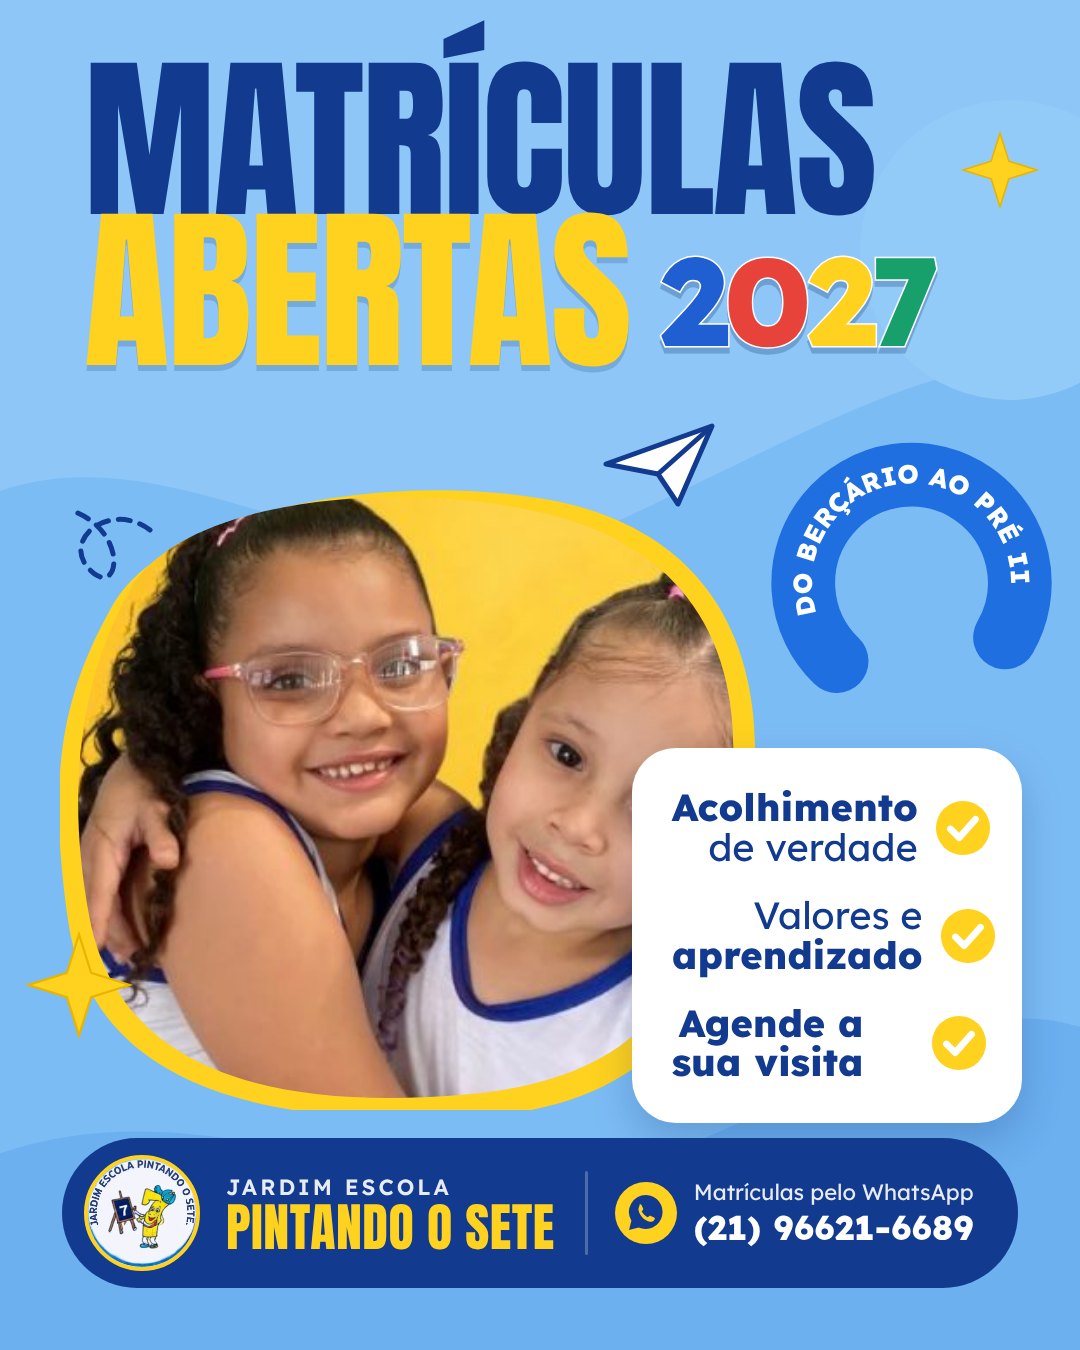
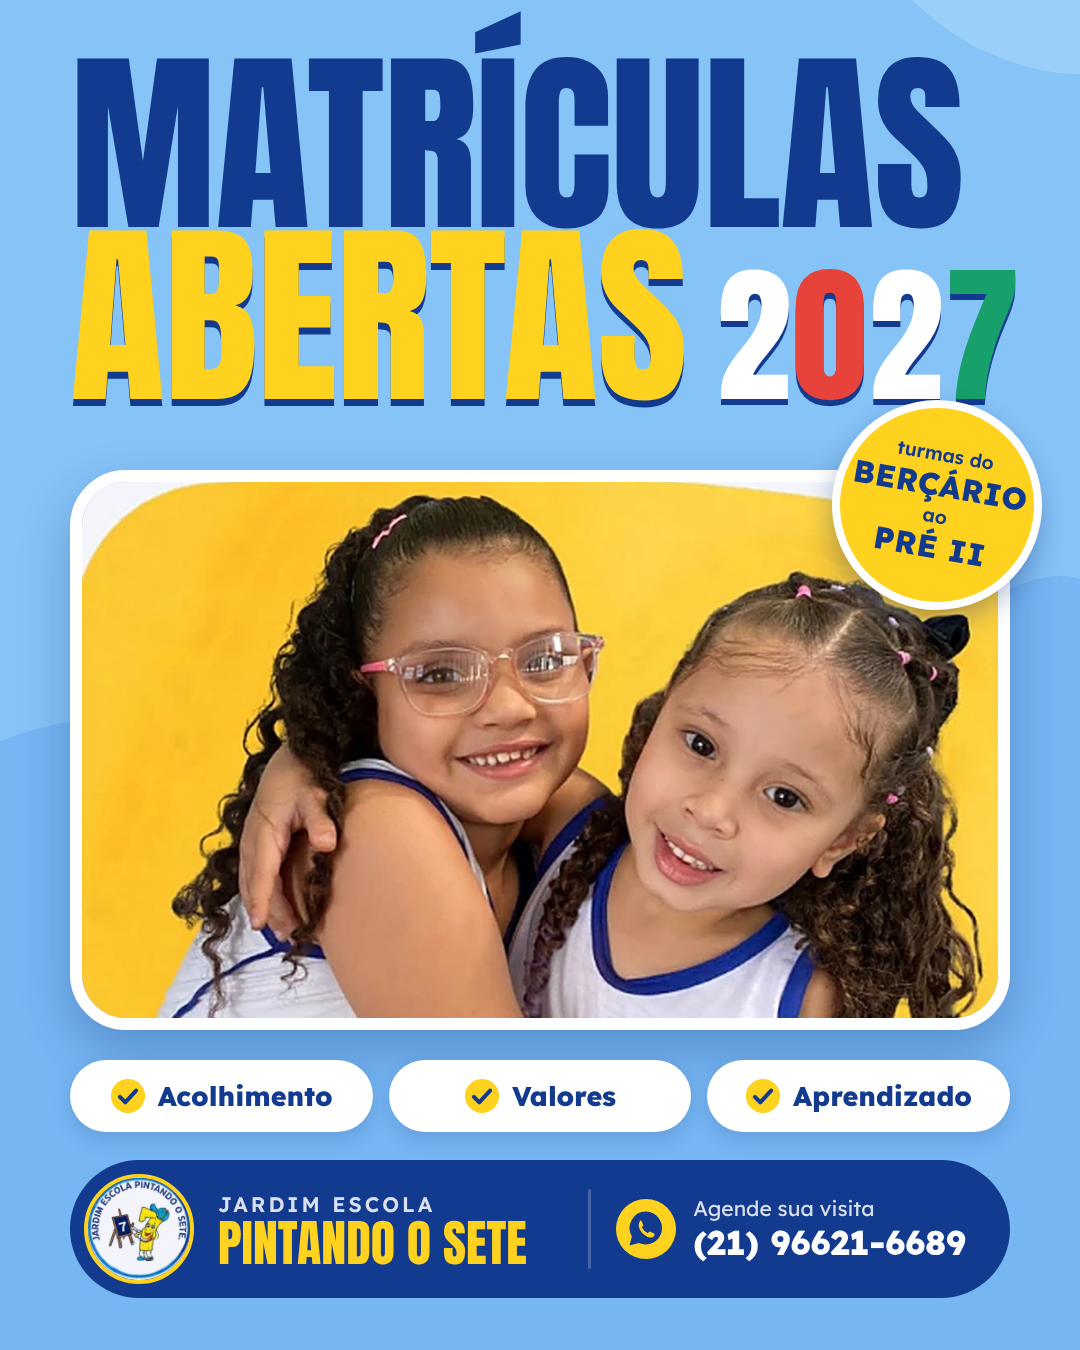
Redesign Pintando o Sete enrollment post
Full photo with no overlap on faces, sharper image, consistent
headline type, sticker badge and checklist chips.

Claude-Session: https://claude.ai/code/session_01LHQJ2j9CogA1KNXXN3haR6

diff --git a/pintando-o-sete/post-matriculas.html b/pintando-o-sete/post-matriculas.html
@@ -2,80 +2,60 @@
 <html lang="pt-BR"><head><meta charset="utf-8">
 <link rel="stylesheet" href="https://fonts.googleapis.com/css2?family=Anton&family=Lexend:wght@400;600;800&display=swap">
 <style>
-:root{--navy:#123a8f;--navy-d:#0d2a6b;--sky:#7cbcf5;--sky-l:#a9d4fb;--yellow:#ffd21f;--red:#e8433a;--green:#17a06b;--white:#fff}
+:root{--navy:#123a8f;--sky:#86c3f7;--sky-d:#6aaef0;--yellow:#ffd21f;--red:#e8433a;--green:#17a06b;--blue:#1f5fd1;--white:#fff}
 *{box-sizing:border-box;margin:0;padding:0}
 body{width:1080px;height:1350px;overflow:hidden;font-family:Lexend,sans-serif}
 .post{position:relative;width:1080px;height:1350px;background:var(--sky);overflow:hidden}
-.swirl{position:absolute;inset:0}
-h1{position:absolute;left:84px;top:64px;font-family:Anton,Impact,sans-serif;font-weight:400;line-height:.86;letter-spacing:-2px}
-h1 .a{display:block;font-size:176px;color:var(--navy)}
-h1 .b{display:block;font-size:176px;color:var(--yellow);-webkit-text-stroke:0;text-shadow:0 6px 0 rgba(13,42,107,.18)}
-.year{position:absolute;left:660px;top:238px;font-family:Lexend;font-weight:800;font-size:124px;letter-spacing:-4px;line-height:1;
-  -webkit-text-stroke:3px var(--white);paint-order:stroke fill;filter:drop-shadow(0 6px 0 rgba(13,42,107,.25))}
-.year span:nth-child(1){color:#1f5fd1}.year span:nth-child(2){color:var(--red)}.year span:nth-child(3){color:var(--yellow)}.year span:nth-child(4){color:var(--green)}
-.badge{position:absolute;right:26px;top:420px;width:290px;height:290px;transform:rotate(-8deg)}
-.photo{position:absolute;left:60px;top:470px;width:700px;height:640px}
-.card{position:absolute;right:58px;top:748px;width:390px;background:var(--white);border-radius:44px;padding:40px 34px 40px 40px;
-  display:flex;flex-direction:column;gap:28px;box-shadow:0 18px 40px rgba(13,42,107,.22)}
-.item{display:flex;align-items:center;justify-content:space-between;gap:16px}
-.item p{color:var(--navy);font-size:38px;line-height:1.05;text-align:right;font-weight:400}
-.item p b{font-weight:800;display:block}
-.check{flex:none;width:58px;height:58px}
-.bar{position:absolute;left:62px;right:62px;bottom:62px;height:150px;background:var(--navy);border-radius:75px;
-  display:flex;align-items:center;padding:0 44px 0 22px;gap:26px;color:var(--white)}
-.logo{width:116px;height:116px;border-radius:50%;background:#fff;overflow:hidden;flex:none;border:4px solid var(--yellow)}
-.logo img{width:100%;height:100%;object-fit:cover;transform:scale(1.04)}
-.name small{display:block;font-size:22px;letter-spacing:3px;font-weight:600;opacity:.9}
-.name strong{display:block;font-family:Anton,Impact,sans-serif;font-weight:400;font-size:52px;line-height:1;color:var(--yellow);letter-spacing:.5px}
-.sep{width:3px;height:84px;background:rgba(255,255,255,.25);border-radius:2px;margin-left:auto}
+.bg{position:absolute;inset:0}
+.title{position:absolute;left:70px;top:58px;font-family:Anton,Impact,sans-serif;line-height:.88;letter-spacing:-1px}
+.title .l1{display:block;font-size:196px;color:var(--navy)}
+.title .l2{display:flex;align-items:baseline;gap:30px}
+.title .ab{font-size:196px;color:var(--yellow);text-shadow:0 7px 0 var(--navy)}
+.title .yr{font-size:150px;letter-spacing:2px;text-shadow:0 6px 0 var(--navy)}
+.yr i{font-style:normal}.yr i:nth-child(1){color:var(--white)}.yr i:nth-child(2){color:var(--red)}.yr i:nth-child(3){color:var(--white)}.yr i:nth-child(4){color:var(--green)}
+.photo{position:absolute;left:70px;top:470px;width:940px;height:560px;border-radius:56px;overflow:hidden;
+  border:12px solid var(--white);box-shadow:0 22px 50px rgba(13,42,107,.28)}
+.photo img{width:100%;height:100%;object-fit:cover;object-position:50% 30%;display:block}
+.sticker{position:absolute;right:38px;top:400px;width:210px;height:210px;border-radius:50%;background:var(--yellow);
+  border:8px solid var(--white);transform:rotate(10deg);display:flex;flex-direction:column;align-items:center;justify-content:center;
+  text-align:center;color:var(--navy);box-shadow:0 12px 26px rgba(13,42,107,.3)}
+.sticker small{font-size:19px;font-weight:600;line-height:1.2}
+.sticker strong{font-family:Lexend,sans-serif;font-size:31px;line-height:1.25;font-weight:800;letter-spacing:.5px}
+.chips{position:absolute;left:70px;right:70px;top:1060px;display:flex;gap:16px}
+.chip{flex:1;background:var(--white);border-radius:999px;height:72px;display:flex;align-items:center;justify-content:center;gap:12px;
+  color:var(--navy);font-weight:800;font-size:27px;box-shadow:0 8px 20px rgba(13,42,107,.16)}
+.chip svg{width:36px;height:36px;flex:none}
+.bar{position:absolute;left:70px;right:70px;bottom:52px;height:138px;background:var(--navy);border-radius:70px;
+  display:flex;align-items:center;padding:0 44px 0 14px;gap:24px;color:var(--white)}
+.logo{width:110px;height:110px;border-radius:50%;background:#fff;overflow:hidden;flex:none;border:4px solid var(--yellow)}
+.logo img{width:100%;height:100%;object-fit:cover}
+.name small{display:block;font-size:21px;letter-spacing:3px;font-weight:600;opacity:.85}
+.name strong{display:block;font-family:Anton,Impact,sans-serif;font-weight:400;font-size:50px;line-height:1.02;color:var(--yellow)}
+.sep{width:3px;height:80px;background:rgba(255,255,255,.22);border-radius:2px;margin-left:auto}
 .wa{display:flex;align-items:center;gap:16px}
-.wa svg{width:64px;height:64px;flex:none}
-.wa small{display:block;font-size:22px;opacity:.9}
-.wa strong{display:block;font-size:34px;font-weight:800;letter-spacing:.5px}
+.wa svg{width:62px;height:62px;flex:none}
+.wa small{display:block;font-size:21px;opacity:.85}
+.wa strong{display:block;font-size:34px;font-weight:800}
 </style></head><body>
 <div class="post">
-  <!-- fundo: ondas suaves -->
-  <svg class="swirl" viewBox="0 0 1080 1350" aria-hidden="true">
-    <path d="M-60 520 C 160 380, 360 640, 620 520 S 1020 300, 1160 420 L1160 -40 L-60 -40Z" fill="#8dc6f7"/>
-    <path d="M-60 1180 C 200 1040, 420 1260, 700 1140 S 1000 980, 1160 1060 L1160 1400 L-60 1400Z" fill="#6cb0f0"/>
-    <circle cx="1010" cy="250" r="150" fill="#93cbf8"/>
+  <svg class="bg" viewBox="0 0 1080 1350" aria-hidden="true">
+    <path d="M-40 760 C 220 620, 520 860, 800 700 S 1060 560, 1140 620 L1140 1400 L-40 1400Z" fill="#76b6f3"/>
+    <path d="M880 -40 C 960 80, 1100 90, 1140 60 L1140 -40Z" fill="#9acff9"/>
   </svg>
 
-  <h1><span class="a">MATRÍCULAS</span><span class="b">ABERTAS</span></h1>
-  <div class="year"><span>2</span><span>0</span><span>2</span><span>7</span></div>
+  <div class="title">
+    <span class="l1">MATRÍCULAS</span>
+    <span class="l2"><span class="ab">ABERTAS</span><span class="yr"><i>2</i><i>0</i><i>2</i><i>7</i></span></span>
+  </div>
 
-  <!-- selo curvo -->
-  <svg class="badge" viewBox="0 0 300 300">
-    <defs><path id="arc" d="M 62 238 A 112 112 0 1 1 238 238"/></defs>
-    <path d="M 62 238 A 112 112 0 1 1 238 238" fill="none" stroke="#1f6fe0" stroke-width="66" stroke-linecap="round"/>
-    <text font-family="Lexend" font-weight="800" font-size="27" fill="#fff" letter-spacing="1.5" dy="9">
-      <textPath href="#arc" startOffset="50%" text-anchor="middle">DO BERÇÁRIO AO PRÉ II</textPath>
-    </text>
-  </svg>
+  <div class="photo"><img src="meninas_hd.jpg" alt=""></div>
 
-  <!-- foto em moldura orgânica amarela -->
-  <svg class="photo" viewBox="0 0 700 640">
-    <defs>
-      <clipPath id="blob"><path d="M70 120 C 120 30, 330 10, 470 40 C 620 70, 690 170, 670 330 C 650 500, 600 610, 400 625 C 210 640, 60 600, 30 450 C 5 320, 20 210, 70 120Z"/></clipPath>
-    </defs>
-    <path d="M50 140 C 100 40, 330 0, 490 30 C 650 60, 715 180, 690 350 C 668 520, 610 640, 400 648 C 190 656, 30 610, 8 450 C -12 310, 0 230, 50 140Z" fill="#ffd21f"/>
-    <image href="meninas.jpg" x="-20" y="10" width="760" height="630" preserveAspectRatio="xMidYMid slice" clip-path="url(#blob)"/>
-    <!-- aviãozinho de papel com rastro -->
-    <path d="M610 70 c -40 -30, -90 10, -60 40 s 40 -40, -20 -60" fill="none" stroke="#123a8f" stroke-width="5" stroke-dasharray="12 10" stroke-linecap="round" transform="translate(-520 -10)"/>
-  </svg>
+  <div class="sticker"><small>turmas do</small><strong>BERÇÁRIO</strong><small>ao</small><strong>PRÉ II</strong></div>
 
-  <!-- estrelas -->
-  <svg style="position:absolute;left:24px;top:930px;width:110px;height:110px" viewBox="0 0 100 100"><path d="M50 4 L61 39 L96 50 L61 61 L50 96 L39 61 L4 50 L39 39Z" fill="#ffd21f" stroke="#e7b400" stroke-width="2"/></svg>
-  <svg style="position:absolute;left:960px;top:130px;width:80px;height:80px" viewBox="0 0 100 100"><path d="M50 4 L61 39 L96 50 L61 61 L50 96 L39 61 L4 50 L39 39Z" fill="#ffd21f" stroke="#e7b400" stroke-width="2"/></svg>
-  <svg style="position:absolute;left:600px;top:420px;width:120px;height:90px" viewBox="0 0 120 90" aria-hidden="true">
-    <path d="M6 44 L112 6 L78 84 L58 54 Z" fill="#fff" stroke="#123a8f" stroke-width="5" stroke-linejoin="round"/>
-    <path d="M58 54 L112 6" stroke="#123a8f" stroke-width="5"/>
-  </svg>
-
-  <div class="card">
-    <div class="item"><p><b>Acolhimento</b>de verdade</p><svg class="check" viewBox="0 0 60 60"><circle cx="30" cy="30" r="28" fill="#ffd21f"/><path d="M17 31 l9 9 l17 -19" fill="none" stroke="#fff" stroke-width="7" stroke-linecap="round" stroke-linejoin="round"/></svg></div>
-    <div class="item"><p>Valores e<b>aprendizado</b></p><svg class="check" viewBox="0 0 60 60"><circle cx="30" cy="30" r="28" fill="#ffd21f"/><path d="M17 31 l9 9 l17 -19" fill="none" stroke="#fff" stroke-width="7" stroke-linecap="round" stroke-linejoin="round"/></svg></div>
-    <div class="item"><p><b>Agende a</b><b>sua visita</b></p><svg class="check" viewBox="0 0 60 60"><circle cx="30" cy="30" r="28" fill="#ffd21f"/><path d="M17 31 l9 9 l17 -19" fill="none" stroke="#fff" stroke-width="7" stroke-linecap="round" stroke-linejoin="round"/></svg></div>
+  <div class="chips">
+    <div class="chip"><svg viewBox="0 0 40 40"><circle cx="20" cy="20" r="19" fill="#ffd21f"/><path d="M11 21l6 6 12-13" fill="none" stroke="#123a8f" stroke-width="4.5" stroke-linecap="round" stroke-linejoin="round"/></svg>Acolhimento</div>
+    <div class="chip"><svg viewBox="0 0 40 40"><circle cx="20" cy="20" r="19" fill="#ffd21f"/><path d="M11 21l6 6 12-13" fill="none" stroke="#123a8f" stroke-width="4.5" stroke-linecap="round" stroke-linejoin="round"/></svg>Valores</div>
+    <div class="chip"><svg viewBox="0 0 40 40"><circle cx="20" cy="20" r="19" fill="#ffd21f"/><path d="M11 21l6 6 12-13" fill="none" stroke="#123a8f" stroke-width="4.5" stroke-linecap="round" stroke-linejoin="round"/></svg>Aprendizado</div>
   </div>
 
   <div class="bar">
@@ -84,7 +64,7 @@ h1 .b{display:block;font-size:176px;color:var(--yellow);-webkit-text-stroke:0;te
     <div class="sep"></div>
     <div class="wa">
       <svg viewBox="0 0 64 64"><circle cx="32" cy="32" r="31" fill="#ffd21f"/><path d="M32 14a17 17 0 0 0-14.6 25.7L15 49l9.6-2.5A17 17 0 1 0 32 14z" fill="#123a8f"/><path d="M25.5 23.5c.6-.4 1.6-.4 2 .4l1.6 3.6c.3.6 0 1.2-.4 1.7l-1 1.1c1.4 2.7 3.5 4.7 6.2 6l1.1-1.1c.4-.4 1.1-.6 1.7-.3l3.5 1.7c.7.4.8 1.3.4 2-.9 1.6-2.6 2.6-4.5 2.2-5.6-1.2-10.4-6-11.6-11.6-.3-1.6.4-3.4 1-4.4z" fill="#ffd21f"/></svg>
-      <div><small>Matrículas pelo WhatsApp</small><strong>(21) 96621-6689</strong></div>
+      <div><small>Agende sua visita</small><strong>(21) 96621-6689</strong></div>
     </div>
   </div>
 </div>
